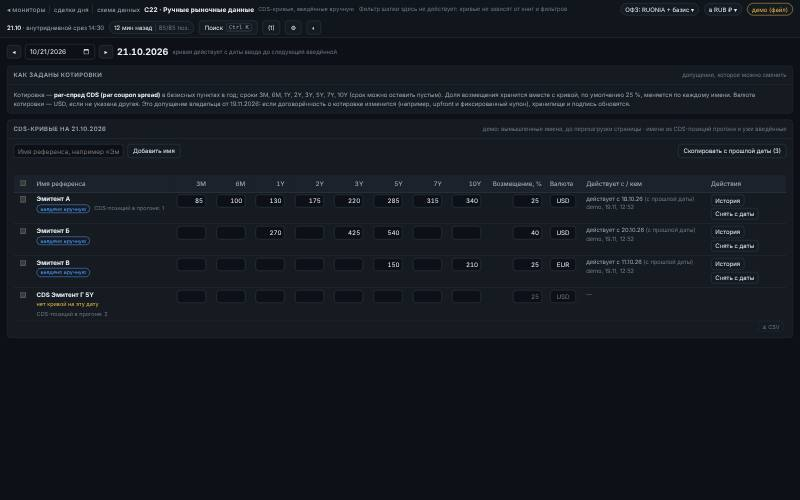
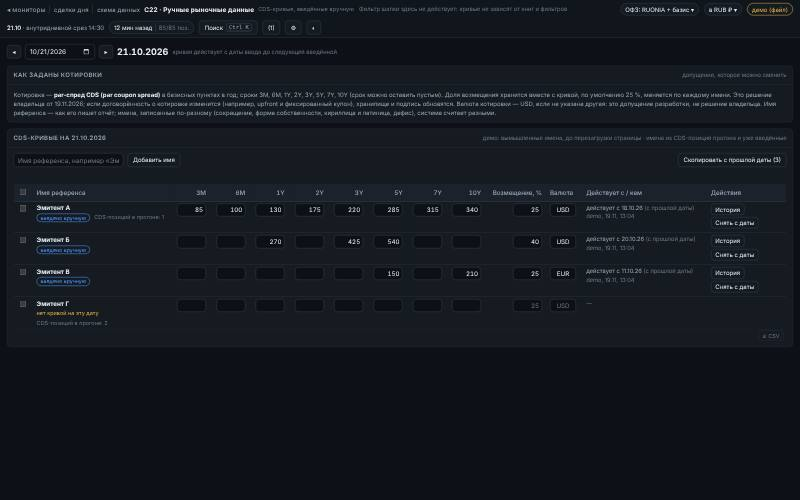
CDS curves review fixes, C22 and docs: explicit copy list, issuer names, bounds (TDM#652)
- The page always sends the explicit list of names the copy button shows; the
  demo copies by the same rules (a copy of everything keeps a withdrawal).
- Demo and tests use the issuer as the name, deal names as a hint (title) of
  the «CDS-позиций в прогоне» note.
- Recovery rate below 100 %, names without invisible characters, dates 2000..2100
  in the page logic and the demo; an added name is dropped from the page's own
  list after the server saved it (the server's name_key wins).
- The convention text says what the owner decided and that USD by default is a
  developer's assumption, and that differently spelled names are different names.
- Docs 05 §4c: key from x_issuer and its limits, changed_at vs rev_id, copy
  semantics. Thumbnail refreshed.

Claude-Session: https://claude.ai/code/session_01UuVXzbrr6MFdTxwNqkVFK4

diff --git a/prototypes/concepts/lib/manual-md.js b/prototypes/concepts/lib/manual-md.js
@@ -3,9 +3,14 @@
  * два источника кривых CDS с одним набором вызовов: сервер (api/v1/market-data/manual/cds, backend
  * desk/api/manual_md_routes.py, desk/marketdata/manual_cds.py) и демо в памяти страницы (файл или ?demo=1).
  *
- * Конвенция котировки (допущение владельца от 19.11.2026, правится в одном месте — здесь и в backend manual_cds.py):
- * par-спред CDS (par coupon spread), б.п. в год; сроки 3M 6M 1Y 2Y 3Y 5Y 7Y 10Y; доля возмещения хранится с кривой
- * (по умолчанию 25 %); валюта котировки — USD, если не задана другая.
+ * Конвенция котировки (решение владельца от 19.11.2026, допущение, которое можно сменить; правится здесь и в backend
+ * manual_cds.py): par-спред CDS (par coupon spread), б.п. в год; сроки 3M 6M 1Y 2Y 3Y 5Y 7Y 10Y; доля возмещения хранится
+ * с кривой (по умолчанию 25 %, строго меньше 100 %). Валюта котировки — USD, если не задана другая: это допущение
+ * разработки, не решение владельца.
+ *
+ * Имена: строки таблицы склеиваются по name_key, который отдаёт сервер (кривые и CDS-позиции). Свой nameKey нужен только
+ * для имени, только что набранного на странице; на редких символах (например «ß», «ς») он может разойтись с casefold
+ * сервера — тогда такое имя после сохранения (ответ сервера с его name_key) убирается из «добавленных», дубля нет.
  *
  * Вызовы api (оба источника) возвращают Promise<{ status, body }>, как M.aliasApi: 200 — ответ, 403 — нет прав
  * (страница переходит в «только чтение»), 422 — ввод не принят (body.message), 0 — нет связи.
@@ -14,11 +19,13 @@
 (function (root) {
   'use strict';
   const TENORS = ['3M', '6M', '1Y', '2Y', '3Y', '5Y', '7Y', '10Y'];
-  const DEFAULTS = { recovery: 0.25, ccy: 'USD', maxSpread: 10000, maxName: 120 };
+  const DEFAULTS = { recovery: 0.25, ccy: 'USD', maxSpread: 10000, maxName: 120, minDate: '2000-01-01', maxDate: '2100-12-31' };
   const CONVENTION = 'Котировка — par-спред CDS (par coupon spread) в базисных пунктах в год; сроки 3M, 6M, 1Y, 2Y, 3Y, 5Y, 7Y, 10Y ' +
     '(срок можно оставить пустым). Доля возмещения хранится вместе с кривой, по умолчанию 25 %, меняется по каждому имени. ' +
-    'Валюта котировки — USD, если не указана другая. Это допущение владельца от 19.11.2026: если договорённость о котировке ' +
-    'изменится (например, upfront и фиксированный купон), хранилище и подпись обновятся.';
+    'Это решение владельца от 19.11.2026; если договорённость о котировке изменится (например, upfront и фиксированный купон), ' +
+    'хранилище и подпись обновятся. Валюта котировки — USD, если не указана другая: это допущение разработки, не решение владельца. ' +
+    'Имя референса — как его пишет отчёт; имена, записанные по-разному (сокращение, форма собственности, кириллица и латиница, дефис), ' +
+    'система считает разными.';
 
   const clean = s => String(s == null ? '' : s).split(/\s+/).filter(Boolean).join(' ');
   // идентификатор имени, как на сервере (backend manual_cds.name_key): NFKC, строчные, пробелы в один
@@ -41,8 +48,9 @@
     if (!t) return { ok: true, value: null };
     if (!/^\d+([.,]\d+)?$/.test(t)) return { ok: false, value: null, error: 'доля возмещения — число от 0 до 100 %' };
     const v = num(t);
-    if (v > 100) return { ok: false, value: null, error: 'доля возмещения — от 0 до 100 %' };
-    return { ok: true, value: Math.round(v * 100) / 10000 };
+    const frac = Math.round(v * 100) / 10000;
+    if (frac >= 1) return { ok: false, value: null, error: 'доля возмещения — от 0 до 100 %, не включая 100' };
+    return { ok: true, value: frac };
   }
   function parseCcy(text) {
     const t = String(text == null ? '' : text).trim().toUpperCase();
@@ -52,7 +60,7 @@
   function parseName(text) {
     const n = clean(text);
     if (!n) return { ok: false, error: 'введите имя референса' };
-    if (/[\u0000-\u0008\u000b\u000c\u000e-\u001f\u007f-\u009f]/.test(String(text))) return { ok: false, error: 'в имени служебные символы' };
+    if (/[\u0000-\u0008\u000b\u000c\u000e-\u001f\u007f-\u009f]/.test(String(text)) || /\p{Cf}/u.test(String(text))) return { ok: false, error: 'в имени служебные или невидимые символы' };
     if (n.length > DEFAULTS.maxName) return { ok: false, error: 'имя длиннее ' + DEFAULTS.maxName + ' знаков' };
     return { ok: true, name: n, key: nameKey(n) };
   }
@@ -93,8 +101,8 @@
     const by = new Map();
     ((list && list.curves) || []).forEach(c => by.set(c.name_key, { key: c.name_key, name: c.name, curve: c, positions: 0 }));
     ((list && list.positions) || []).forEach(p => {
-      const r = by.get(p.name_key) || { key: p.name_key, name: p.name, curve: null, positions: 0 };
-      r.positions = p.positions; by.set(p.name_key, r);
+      const r = by.get(p.name_key) || { key: p.name_key, name: p.name, curve: null, positions: 0, deals: [] };
+      r.positions = p.positions; r.deals = p.deals || []; by.set(p.name_key, r);
     });
     (added || []).forEach(n => { const k = nameKey(n); if (!by.has(k)) by.set(k, { key: k, name: clean(n), curve: null, positions: 0 }); });
     return [...by.values()].sort((a, b) => a.name.localeCompare(b.name, 'ru'));
@@ -161,7 +169,8 @@
     add('Эмитент Б', addDays(asOf, -3), { '1Y': 260, '3Y': 410, '5Y': 520 }, 0.4, 'USD', 'demo');
     add('Эмитент Б', addDays(asOf, -1), { '1Y': 270, '3Y': 425, '5Y': 540 }, 0.4, 'USD', 'demo');
     add('Эмитент В', addDays(asOf, -10), { '5Y': 150, '10Y': 210 }, 0.25, 'EUR', 'demo');
-    const POSITIONS = [{ name: 'CDS Эмитент Г 5Y', positions: 2 }, { name: 'Эмитент А', positions: 1 }];
+    // CDS-позиции прогона: имя референса — x_issuer отчёта, названия сделок — подсказка
+    const POSITIONS = [{ name: 'Эмитент Г', positions: 2, deals: ['CDS Эмитент Г 3Y', 'CDS Эмитент Г 5Y'] }, { name: 'Эмитент А', positions: 1, deals: ['CDS Эмитент А 5Y'] }];
     return {
       demo: true,
       list(date) {
@@ -169,11 +178,12 @@
         const have = new Set(curves.map(c => c.name_key));
         return Promise.resolve(ok({ date, run_id: null, tenors: TENORS.slice(), default_recovery: DEFAULTS.recovery, default_ccy: DEFAULTS.ccy,
           max_spread_bp: DEFAULTS.maxSpread, curves: curves.map(c => view(c, date)),
-          positions: POSITIONS.map(p => ({ name: p.name, name_key: nameKey(p.name), positions: p.positions, has_curve: have.has(nameKey(p.name)) })) }));
+          positions: POSITIONS.map(p => ({ name: p.name, name_key: nameKey(p.name), positions: p.positions, deals: p.deals, has_curve: have.has(nameKey(p.name)) })) }));
       },
       put(b) {
         const n = parseName(b.name);
         if (!n.ok) return Promise.resolve(bad(n.error));
+        if (!(b.date >= DEFAULTS.minDate && b.date <= DEFAULTS.maxDate)) return Promise.resolve(bad('the date is outside ' + DEFAULTS.minDate + '..' + DEFAULTS.maxDate));
         if (b.clear) {
           if (!inForce(n.key, b.date)) return Promise.resolve(ok({ changed: false, curve: null }));
           add(n.name, b.date, {}, null, null, 'demo', true);
@@ -188,7 +198,7 @@
         }
         if (TENORS.every(t => sp[t] == null)) return Promise.resolve(bad('a curve needs at least one spread'));
         const rec = b.recovery == null ? DEFAULTS.recovery : +b.recovery;
-        if (!(rec >= 0 && rec <= 1)) return Promise.resolve(bad('the recovery rate is outside 0..1'));
+        if (!(rec >= 0 && Math.round(rec * 1e4) / 1e4 < 1)) return Promise.resolve(bad('the recovery rate must be from 0 up to (not including) 1'));
         const ccy = parseCcy(b.ccy || '');
         if (!ccy.ok) return Promise.resolve(bad(ccy.error));
         const now = inForce(n.key, b.date), c = ccy.value || DEFAULTS.ccy;
@@ -197,13 +207,15 @@
         return Promise.resolve(ok({ changed: true, curve: view(add(n.name, b.date, sp, rec, c, 'demo'), b.date) }));
       },
       copy(b) {
+        for (const d of [b.to_date, b.from_date]) if (d && !(d >= DEFAULTS.minDate && d <= DEFAULTS.maxDate)) return Promise.resolve(bad('the date is outside ' + DEFAULTS.minDate + '..' + DEFAULTS.maxDate));
         if (b.from_date && b.from_date >= b.to_date) return Promise.resolve(bad('the date to copy from must be earlier than the date to copy to'));
         const want = b.names ? [...new Set(b.names.map(nameKey))] : null, copied = [], skipped = [];
         for (const k of want || keys().filter(k => inForce(k, b.from_date || b.to_date, !b.from_date))) {
           const src = b.from_date ? inForce(k, b.from_date) : inForce(k, b.to_date, true);
           if (!src) { skipped.push({ name_key: k, name: (revs.find(r => r.name_key === k) || { name: k }).name, why: 'нет кривой на дату, с которой копируем' }); continue; }
           const own = revs.filter(r => r.name_key === k && r.valid_from === b.to_date).pop();
-          if (own && !own.cleared) { skipped.push({ name_key: k, name: src.name, why: 'на эту дату кривая уже введена' }); continue; }
+          // копирование «всех» (без списка имён) снятие на эту дату не отменяет; названное имя — возвращает
+          if (own && (!want || !own.cleared)) { skipped.push({ name_key: k, name: src.name, why: own.cleared ? 'на эту дату имя снято' : 'на эту дату кривая уже введена' }); continue; }
           copied.push(view(add(src.name, b.to_date, src.spreads_bp, src.recovery, src.ccy, 'demo'), b.to_date));
         }
         return Promise.resolve(ok({ to_date: b.to_date, copied, skipped }));

diff --git a/prototypes/concepts/c22-manual-md.html b/prototypes/concepts/c22-manual-md.html
@@ -131,7 +131,7 @@ table.c22-tbl { border-collapse: separate; border-spacing: 0; font-size: 12.5px;
     return '<tr class="c22-row' + (dirty ? ' dirty' : '') + '" data-k="' + esc(r.key) + '">' +
       (ed ? '<td><input type="checkbox" data-sel aria-label="Выбрать ' + nm + '"' + (picked.has(r.key) ? ' checked' : '') + '></td>' : '') +
       '<td class="c22-name" data-csv="' + nm + '"><b>' + nm + '</b><div class="c22-sub">' + (hasCurve ? '<span class="c22-man" title="Кривая введена вручную (других источников пока нет)">введено вручную</span>' : '<span class="c22-none">нет кривой на эту дату</span>') +
-      (r.positions ? '<span>CDS-позиций в прогоне: ' + r.positions + '</span>' : '') + '</div>' + (errTxt ? '<div class="c22-err" role="alert">' + esc(errTxt) + '</div>' : '') + '</td>' +
+      (r.positions ? '<span' + (r.deals && r.deals.length ? ' title="' + esc('Сделки: ' + r.deals.join(', ')) + '"' : '') + '>CDS-позиций в прогоне: ' + r.positions + '</span>' : '') + '</div>' + (errTxt ? '<div class="c22-err" role="alert">' + esc(errTxt) + '</div>' : '') + '</td>' +
       T.map(t => '<td class="n' + (ed ? '' : ' c22-ro-v') + '" data-csv="' + (c && c.spreads_bp[t] != null ? c.spreads_bp[t] : '') + '">' + (ed ? cell(t, 'срок ' + t + ', б.п.', '') : val(r, t)) + '</td>').join('') +
       '<td class="n' + (ed ? '' : ' c22-ro-v') + '" data-csv="' + (c ? +(c.recovery * 100).toFixed(2) : '') + '">' + (ed ? cell('recovery', 'доля возмещения, %', '25') : (c ? MD.fmtPct(c.recovery) + ' %' : '—')) + '</td>' +
       '<td class="' + (ed ? '' : 'c22-ro-v') + '" data-csv="' + (c ? esc(c.ccy) : '') + '">' + (ed ? cell('ccy', 'валюта', 'USD', 'ccy') : (c ? esc(c.ccy) : '—')) + '</td>' +
@@ -236,6 +236,8 @@ table.c22-tbl { border-collapse: separate; border-spacing: 0; font-size: 12.5px;
       if (noRights(x)) return;
       if (x.status === 200) {
         drafts.delete(key); errs.delete(key); hist.delete(key);
+        const sk = x.body.curve && x.body.curve.name_key;  // ключ — как у сервера: имя больше не «добавленное»
+        added = added.filter(n => MD.nameKey(n) !== key && !(sk && MD.nameKey(n) === sk) && n !== r.name);
         return load().then(() => say(x.body.changed ? 'Сохранено: «' + r.name + '» на ' + long(on) + '.' : 'Без изменений: на эту дату уже действует такая кривая.', x.body.changed ? 'ok' : 'info'));
       }
       errs.set(key, { server: x.status === 422 ? 'Сервер не принял: ' + ((x.body && x.body.message) || '') : 'Не сохранено: ' + ((x.body && x.body.message) || 'ответ ' + x.status) });
@@ -266,7 +268,8 @@ table.c22-tbl { border-collapse: separate; border-spacing: 0; font-size: 12.5px;
   function copyPrev() {
     if (busy) return;
     const R = rows(), eligible = MD.copyEligible(R, on);
-    const names = picked.size ? R.filter(r => picked.has(r.key) && eligible.indexOf(r.name) >= 0).map(r => r.name) : null;
+    // всегда явный список: то, что показано на кнопке; снятое на эту дату имя копирование «всех» не возвращает
+    const names = picked.size ? R.filter(r => picked.has(r.key) && eligible.indexOf(r.name) >= 0).map(r => r.name) : eligible;
     busy = true;
     api.copy({ to_date: on, names }).then(x => {
       busy = false;

diff --git a/tests/js/manual_md_652.pw.test.js b/tests/js/manual_md_652.pw.test.js
@@ -132,7 +132,7 @@ test('C22: копирование с прошлой даты (выбранные
     assert.match(await pg.locator('[data-a=copy]').innerText(), /Скопировать с прошлой даты \(2\)/);
     await pg.locator('[data-a=copy]').click();
     await pg.waitForFunction(() => /: 2/.test(document.getElementById('msg').textContent));
-    assert.deepEqual(post()[1].body, { to_date: AS_OF, names: null });
+    assert.deepEqual(post()[1].body, { to_date: AS_OF, names: ['Эмитент А', 'Эмитент В'] }, 'всегда явный список — число на кнопке');
     assert.equal(await pg.locator('[data-a=copy]').isDisabled(), true, 'копировать больше нечего');
     // добавить имя: строка без кривой, ввод спредов, сохранение
     await pg.fill('#addname', '  Эмитент   Д ');

diff --git a/docs/architecture/05_FRONTEND_INTEGRATION.md b/docs/architecture/05_FRONTEND_INTEGRATION.md
@@ -53,7 +53,7 @@ REST JSON plus an event stream. The OpenAPI is generated from the backend (FastA
 | `/api/v1/market-data/manual/cds/curves` | GET (every user) | The CDS curves the owner entered by hand in force on `date` (TDM#652, `desk.marketdata.manual_cds`, §4c): per reference name the par spreads in basis points by tenor (3M 6M 1Y 2Y 3Y 5Y 7Y 10Y), the recovery rate, the quote currency, who and when, `valid_from` and `entered_on_date` (false: carried from an earlier date); plus `positions`, the CDS names of the date's run (the adapter's product group `cds`) with whether a curve is in force for them. The monitor C22 |
 | `/api/v1/market-data/manual/cds/curve` | GET (every user) / PUT (trader or admin; sign-in off: this computer only, as the alias) | `?name=&date=`: one name's curve in force (404 without one). PUT `{name, date, spreads_bp, recovery, ccy, clear}`: set the whole curve from `date` (a tenor left out is empty, `recovery` null is 25 %, `ccy` null is USD) or, with `clear`, withdraw the name from `date`; a request that sets what is already in force adds no revision (`changed` false); 422 for an unknown tenor, a spread outside 0..10000 bp, a recovery outside 0..1, a bad name |
 | `/api/v1/market-data/manual/cds/history` | GET (every user) | `?name=`: every revision of a name, newest first, with who and when (a withdrawal has `cleared`) |
-| `/api/v1/market-data/manual/cds/copy` | POST (as the PUT) | `{to_date, from_date, names}`: enter on `to_date` the curves in force before it (or on `from_date`), for every name or those named, in one step; a name that already has its own curve on `to_date` is left alone and listed in `skipped` |
+| `/api/v1/market-data/manual/cds/copy` | POST (as the PUT) | `{to_date, from_date, names}`: enter on `to_date` the curves in force before it (or on `from_date`), for every name or those named, in one step; a name that already has an entry of its own on `to_date` is left alone and listed in `skipped`; a withdrawal on `to_date` is undone only for a name asked for in `names`, never by a copy of everything (the page always sends the names it shows on the button) |
 | `/health/live`, `/health/ready` | GET | Liveness; readiness (database, latest snapshot age, worker alive) |
 
 Notes:
@@ -127,15 +127,15 @@ The market's past comes from the store's market history, which the hub's history
 
 The hub has no CDS quotes and no paid source is connected, so the owner types the curves of the reference names on the monitor C22 (`prototypes/concepts/c22-manual-md.html`, logic without DOM in `lib/manual-md.js`); part of them may later come from internal systems and would be stored the same way. The volatility tab of the same task is a separate one (FlyingScotman/trading-desk-monitor#780); the valuation of a CDS from these curves is FlyingScotman/trading-desk-monitor#614.
 
-**Quotation convention. This is an assumption (the owner's decision of 19.11.2026) that can be changed**: the quote is the **par coupon spread**, in basis points per year; the tenors are 3M, 6M, 1Y, 2Y, 3Y, 5Y, 7Y, 10Y (any may be empty); the recovery rate is stored with the curve, 25 % unless the owner sets another one per name; the quote currency is stored with the curve, USD unless another is set. The convention is written on the screen («Как заданы котировки») and in `desk/marketdata/manual_cds.py`; a different one (an upfront with a fixed coupon, other tenors) is a change of the migration's columns, of `TENORS` there and in `lib/manual-md.js` (a test keeps the two lists equal) and of this paragraph.
+**Quotation convention. The owner's decision of 19.11.2026, an assumption that can be changed**: the quote is the **par coupon spread**, in basis points per year; the tenors are 3M, 6M, 1Y, 2Y, 3Y, 5Y, 7Y, 10Y (any may be empty); the recovery rate is stored with the curve, 25 % unless the owner sets another one per name (from 0 up to, not including, 100 %). **Not the owner's decision, the developer's assumption**: the quote currency is stored with the curve, USD unless another is set per name (CDS on emerging-market names are usually quoted in USD). The convention is written on the screen («Как заданы котировки») and in `desk/marketdata/manual_cds.py`; a different one (an upfront with a fixed coupon, other tenors) is a change of the migration's columns, of `TENORS` there and in `lib/manual-md.js` (a test keeps the two lists equal) and of this paragraph.
 
 **Storage.** `manual_cds_rev` (migration 0028) is append-only, like `instrument_alias_rev`: a revision holds the whole curve of one name from `valid_from` on, with `changed_by` (the user, or `local` while sign-in is off) and `changed_at`; the database checks the values (a spread 0..10000 bp, a recovery rate 0..1, a three-letter currency, at least one point) and refuses UPDATE, DELETE and TRUNCATE. A revision with `cleared` withdraws the name from its date until a later curve is entered. The view `manual_cds_curve` is the latest revision of each (name, `valid_from`). A correction of a past date is a new revision of that date; later dates keep their own entries.
 
-**The key of a name.** A CDS row of the positions report has no reference-name field today (it has the report's own `source_instrument_id` / `source_instrument_name` and `deal_id`; the trade terms of the contract have no CDS), so there is no issuer id to join on. The key is the name itself, normalised: `name_key(name)` is Unicode NFKC, case folded, whitespace collapsed (`Эмитент  А` and `эмитент а` are one name); the name as last written is kept for display. The names C22 lists beside the entered ones are those of the date's run's CDS rows (`source_instrument_name`, else `source_instrument_id`). FlyingScotman/trading-desk-monitor#614 maps the reference entity of a CDS trade (a field the terms have to get) with the same `name_key`.
+**The key of a name.** The trade terms of the contract have no CDS, and a CDS row of the positions report has no issuer id to join on. The adapter gives the reference name as the report's `x_issuer` (in `position_input.x`, as the monitor already reads it for an unmapped bond, `publish/tdm_run.py`); the row's `source_instrument_name` is the name of the deal («CDS Эмитент А 5Y»). The key is the text of the reference name, normalised: `name_key(name)` is Unicode NFKC, case folded, whitespace collapsed (`Эмитент  А` and `эмитент а` are one name); the name as last written is kept for display. The names C22 lists beside the entered ones are those of the date's run's CDS rows: `x_issuer`, else `source_instrument_name`, else `source_instrument_id` (the deal names are the hint). FlyingScotman/trading-desk-monitor#614 maps the reference name of a CDS row (`x_issuer`, later the terms' field) with the same `name_key`. **Known limitation for #614**: names that differ in spelling (an abbreviation, a legal form, a hyphen for a space, Cyrillic and Latin look-alike letters) are different names, there is no alias table, and the page's own `nameKey` can differ from the server's case folding on rare characters (the page joins rows by the server's `name_key`). The screen lists the report's spelling beside the entered names so that the owner types that one; a mismatch shows as a name without a curve.
 
 **For the calculation.** `desk.marketdata.manual_cds`:
 - `curve_on(con, date, name, known_at=None)` returns the `Curve` in force on `date` (`spreads_bp` by tenor, `points()` = (tenor, years, bp) of the tenors given, `recovery` as a fraction, `ccy`, `rev_id`, who and when) or None: the name's latest revision of the latest `valid_from` <= `date`, None when there is none or it was withdrawn. `known_at` gives what a run that read its inputs at that time saw; `curves_on(con, date)` is all names;
-- `curves_changed_since(con, date, known_at)` is True when the curves in force on `date` differ from those seen at `known_at`.
+- `curves_changed_since(con, date, known_at)` is True when the curves in force on `date` differ from those seen at `known_at`. `changed_at` is `clock_timestamp()` at the INSERT, not the commit time, so a revision committed after `known_at` may carry an earlier time: for #614 the reliable comparison is by the `rev_id` of each curve that the run recorded, against `curves_on(con, date)`; the timestamp function is the approximation until the run records them.
 
 **Late changes.** The day's calculation does not read these curves yet, so an edit of a past date does not mark that date's run stale (a rerun would give the same numbers). When the valuation of a CDS reads them (#614): add `manual_cds` to `store.late_inputs` / `backfill.LATE_WHY` as a late input of the dates whose run holds CDS rows (`position_input.x->>'x_product_group' = 'cds'` in the run's sets), decided by `curves_changed_since(con, date, run.positions_known_at)`, and record in the run which `rev_id` of each name it used.
 
